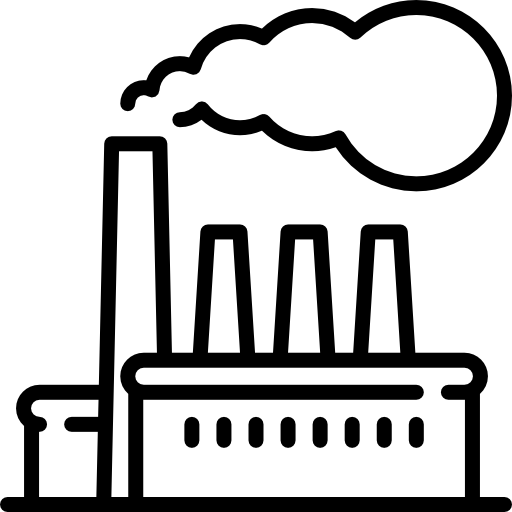
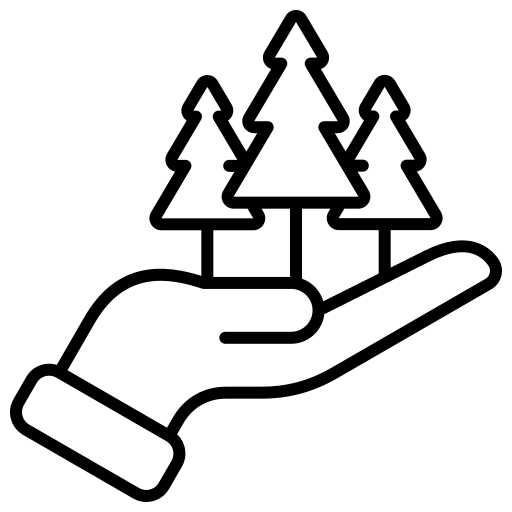
Modificaciones de comentario finales

diff --git a/index.html b/index.html
@@ -59,8 +59,8 @@
           height="140"
         />
         <span class="logo__text">
-          <span class="logo__title">AJEA</span>
           <span class="logo__subtitle">Asistencia Jurídica y Estrategias Ambientales</span>
+          <span class="logo__title">AJEA</span>
         </span>
       </a>
 
@@ -172,8 +172,6 @@
             <p>
               En AJEA solidificamos relaciones con base en el trabajo y un amplio compromiso con nuestros
               clientes, cubriendo las necesidades de uno de los ámbitos angulares de la ciudad: el ambiental.
-              Contamos con un equipo multidisciplinario con trayectoria tanto en el sector público —incluida la
-              Secretaría del Medio Ambiente de la Ciudad de México— como en la consultoría privada.
             </p>
           </div>
 
@@ -262,10 +260,8 @@
               </div>
             </div>
             <p class="team-card__bio">
-              Su experiencia profesional abarca el sector público —estando a cargo de diversas unidades operativas
-              en la Secretaría del Medio Ambiente de la Ciudad de México, destacando su gestión como Director de
-              Evaluación de Impacto Ambiental— así como el sector privado, tanto en la elaboración de estudios de
-              impacto ambiental como en la supervisión ambiental de diversas obras.
+              Su experiencia profesional abarca tanto la elaboración de estudios de impacto ambiental como la
+              supervisión ambiental de diversas obras.
             </p>
           </article>
 
@@ -280,8 +276,7 @@
               </div>
             </div>
             <p class="team-card__bio">
-              Se ha desarrollado en diversas áreas afines a la evaluación de impacto ambiental; formó parte de la
-              Secretaría del Medio Ambiente de la Ciudad de México como Subdirectora de Evaluación y actualmente
+              Se ha desarrollado en diversas áreas afines a la evaluación de impacto ambiental; actualmente
               realiza diversos trámites para la ejecución de obras públicas y privadas.
             </p>
           </article>
@@ -424,15 +419,16 @@
         <div>
           <h3 class="footer__heading">Contacto directo</h3>
           <div class="footer__list">
-            <a href="mailto:ajea.consultores@gmail.com">ajea.consultores@gmail.com</a>
+            <a href="mailto:atencionclientes@ajea.mx">atencionclientes@ajea.mx</a>
+            <a href="mailto:bmedina@ajea.mx">bmedina@ajea.mx</a>
             <a href="tel:+525243779423">55 4377 9423</a>
-            <a href="tel:+525248174586">55 4817 4586</a>
+            <a href="tel:+525225805321">55 2580 5321</a>
           </div>
         </div>
       </div>
 
       <div class="footer__bottom">
-        <span>© 2026 AJEA — Asistencia Jurídica y Estrategias Ambientales. Todos los derechos reservados.</span>
+        <span>© 2026 - Asistencia Jurídica y Estrategias Ambientales AJEA, S.A. de C.V.</span>
         <span>Ciudad de México</span>
       </div>
     </div>

diff --git a/contacto.html b/contacto.html
@@ -53,8 +53,8 @@
           height="140"
         />
         <span class="logo__text">
-          <span class="logo__title">AJEA</span>
           <span class="logo__subtitle">Asistencia Jurídica y Estrategias Ambientales</span>
+          <span class="logo__title">AJEA</span>
         </span>
       </a>
 
@@ -105,7 +105,6 @@
               <div>
                 <h3>Teléfonos</h3>
                 <a href="tel:+525243779423">55 4377 9423</a>
-                <a href="tel:+525248174586">55 4817 4586</a>
                 <a href="tel:+525225805321">55 2580 5321</a>
               </div>
             </div>
@@ -116,9 +115,8 @@
               </span>
               <div>
                 <h3>Correos electrónicos</h3>
-                <a href="mailto:ajea.consultores@gmail.com">ajea.consultores@gmail.com</a>
-                <a href="mailto:bmh.ajeaconsultores@gmail.com">bmh.ajeaconsultores@gmail.com</a>
-                <a href="mailto:rjj.ajeaconsultores@gmail.com">rjj.ajeaconsultores@gmail.com</a>
+                <a href="mailto:atencionclientes@ajea.mx">atencionclientes@ajea.mx</a>
+                <a href="mailto:bmedina@ajea.mx">bmedina@ajea.mx</a>
               </div>
             </div>
 
@@ -227,15 +225,16 @@
         <div>
           <h3 class="footer__heading">Contacto directo</h3>
           <div class="footer__list">
-            <a href="mailto:ajea.consultores@gmail.com">ajea.consultores@gmail.com</a>
+            <a href="mailto:atencionclientes@ajea.mx">atencionclientes@ajea.mx</a>
+            <a href="mailto:bmedina@ajea.mx">bmedina@ajea.mx</a>
             <a href="tel:+525243779423">55 4377 9423</a>
-            <a href="tel:+525248174586">55 4817 4586</a>
+            <a href="tel:+525225805321">55 2580 5321</a>
           </div>
         </div>
       </div>
 
       <div class="footer__bottom">
-        <span>© 2026 AJEA — Asistencia Jurídica y Estrategias Ambientales. Todos los derechos reservados.</span>
+        <span>© 2026 - Asistencia Jurídica y Estrategias Ambientales AJEA, S.A. de C.V.</span>
         <span>Ciudad de México</span>
       </div>
     </div>

diff --git a/servicios.html b/servicios.html
@@ -53,8 +53,8 @@
           height="140"
         />
         <span class="logo__text">
-          <span class="logo__title">AJEA</span>
           <span class="logo__subtitle">Asistencia Jurídica y Estrategias Ambientales</span>
+          <span class="logo__title">AJEA</span>
         </span>
       </a>
 
@@ -430,15 +430,16 @@
         <div>
           <h3 class="footer__heading">Contacto directo</h3>
           <div class="footer__list">
-            <a href="mailto:ajea.consultores@gmail.com">ajea.consultores@gmail.com</a>
+            <a href="mailto:atencionclientes@ajea.mx">atencionclientes@ajea.mx</a>
+            <a href="mailto:bmedina@ajea.mx">bmedina@ajea.mx</a>
             <a href="tel:+525243779423">55 4377 9423</a>
-            <a href="tel:+525248174586">55 4817 4586</a>
+            <a href="tel:+525225805321">55 2580 5321</a>
           </div>
         </div>
       </div>
 
       <div class="footer__bottom">
-        <span>© 2026 AJEA — Asistencia Jurídica y Estrategias Ambientales. Todos los derechos reservados.</span>
+        <span>© 2026 - Asistencia Jurídica y Estrategias Ambientales AJEA, S.A. de C.V.</span>
         <span>Ciudad de México</span>
       </div>
     </div>

diff --git a/css/styles.css b/css/styles.css
@@ -334,6 +334,7 @@ summary:focus-visible {
   font-size: 1.15rem;
   color: var(--color-primary-dark);
   letter-spacing: 0.02em;
+  text-align: center;
 }
 
 .logo__subtitle {
